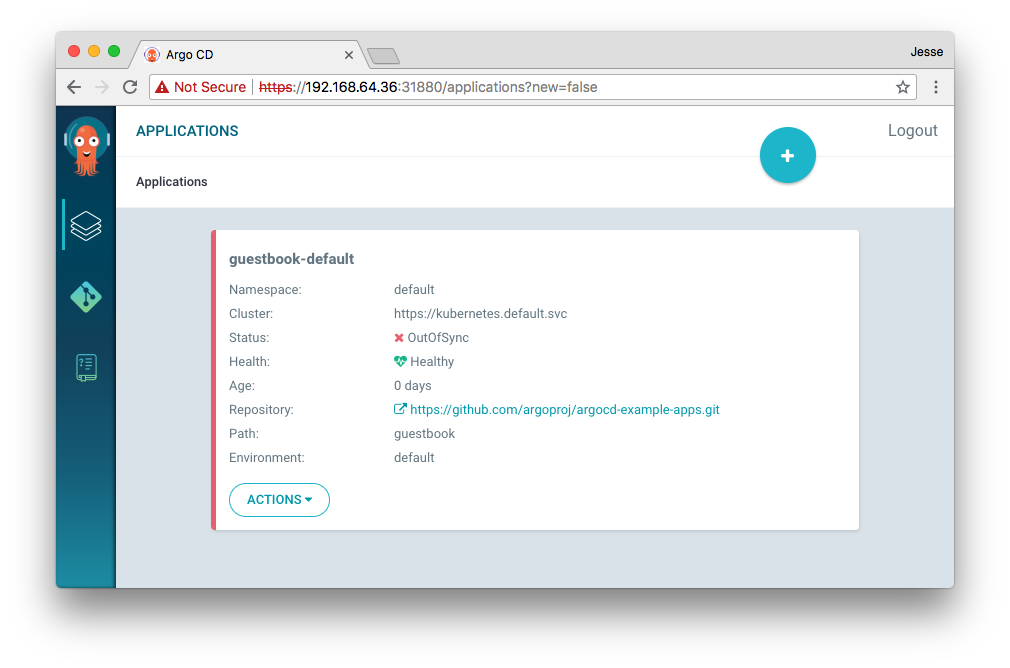
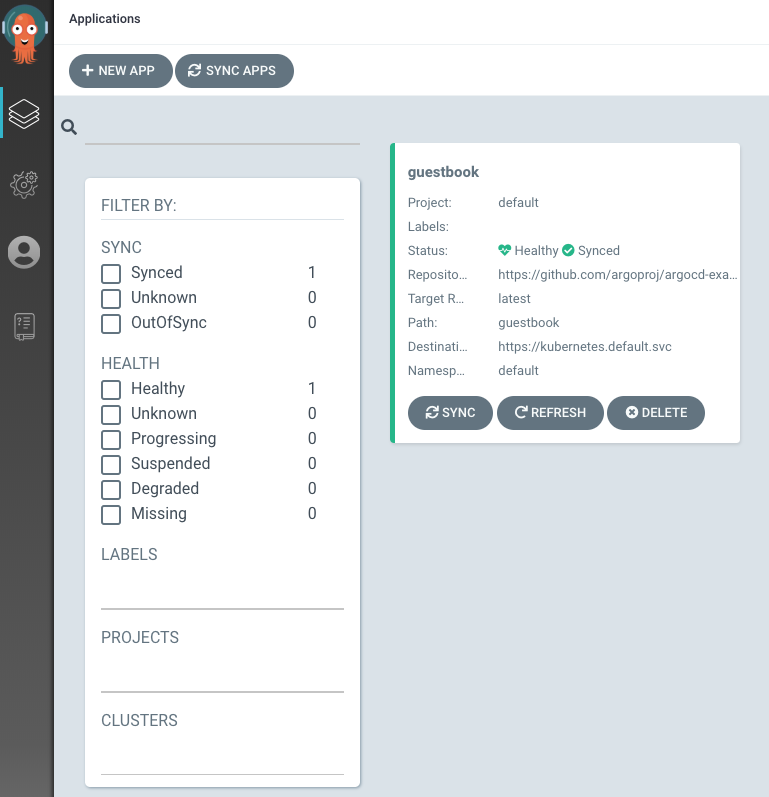
updates to getting started tutorial (#2801)

diff --git a/docs/getting_started.md b/docs/getting_started.md
@@ -1,7 +1,7 @@
 # Getting Started
 
 !!! tip
-    This guide assumes you have a grounding in the tools that Argo CD is based on. Please read the [understanding the basics](understand_the_basics.md).
+    This guide assumes you have a grounding in the tools that Argo CD is based on. Please read [understanding the basics](understand_the_basics.md) to learn about these tools.
 
 ## Requirements
 
@@ -62,14 +62,14 @@ The API server can then be accessed using the localhost:8080
 
 ## 4. Login Using The CLI
 
-Login as the `admin` user. The initial password is autogenerated to be the pod name of the
+The initial password is autogenerated to be the pod name of the
 Argo CD API server. This can be retrieved with the command:
 
 ```bash
 kubectl get pods -n argocd -l app.kubernetes.io/name=argocd-server -o name | cut -d'/' -f 2
 ```
 
-Using the above password, login to Argo CD's IP or hostname:
+Using the username `admin` and the password from above, login to Argo CD's IP or hostname:
 
 ```bash
 argocd login <ARGOCD_SERVER>
@@ -124,15 +124,27 @@ argocd app create guestbook \
 
 ### Creating Apps Via UI
 
-Open a browser to the Argo CD external UI, and login using the credentials, IP/hostname set in step 4.
-Connect the [https://github.com/argoproj/argocd-example-apps.git](https://github.com/argoproj/argocd-example-apps.git) repo to Argo CD:
+Open a browser to the Argo CD external UI, and login by visiting the IP/hostname in a browser and use the credentials set in step 4.
 
-![connect repo](assets/connect_repo.png)
+After logging in, click the **+ New App** button as shown below:
 
-After connecting a repository, select the guestbook application for creation:
+![+ new app button](assets/new-app.png)
 
-![select app](assets/select_app.png)
-![create app](assets/create_app.png)
+Give your app the name `guestbook`, use the project `default`, and leave the sync policy as `Manual`:
+
+![app information](assets/app-ui-information.png)
+
+Connect the [https://github.com/argoproj/argocd-example-apps.git](https://github.com/argoproj/argocd-example-apps.git) repo to Argo CD by setting repository url to the github repo url, leave revision as `HEAD`, and set the path to `guestbook`:
+
+![connect repo](assets/connect-repo.png)
+
+For **Destination**, set cluster to `in-cluster` and namespace to `default`:
+
+![destination](assets/destination.png)
+
+After filling out the information above, click **Create** at the top of the UI to create the `guestbook` application:
+
+![destination](assets/create-app.png)
 
 
 ## 7. Sync (Deploy) The Application
@@ -157,7 +169,7 @@ apps   Deployment  default    guestbook-ui  OutOfSync  Missing
        Service     default    guestbook-ui  OutOfSync  Missing
 ```
 
-The application status is initially `OutOfSync` state, since the application has yet to be
+The application status is initially in `OutOfSync` state since the application has yet to be
 deployed, and no Kubernetes resources have been created. To sync (deploy) the application, run:
 
 ```bash
